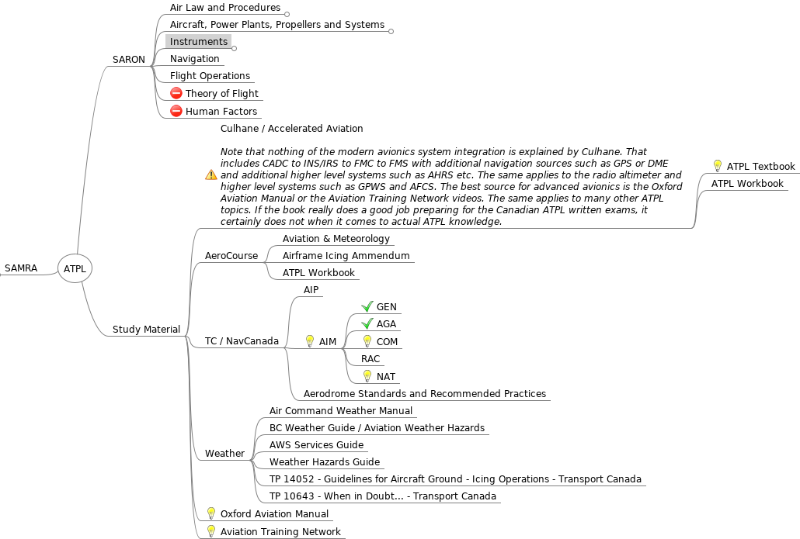
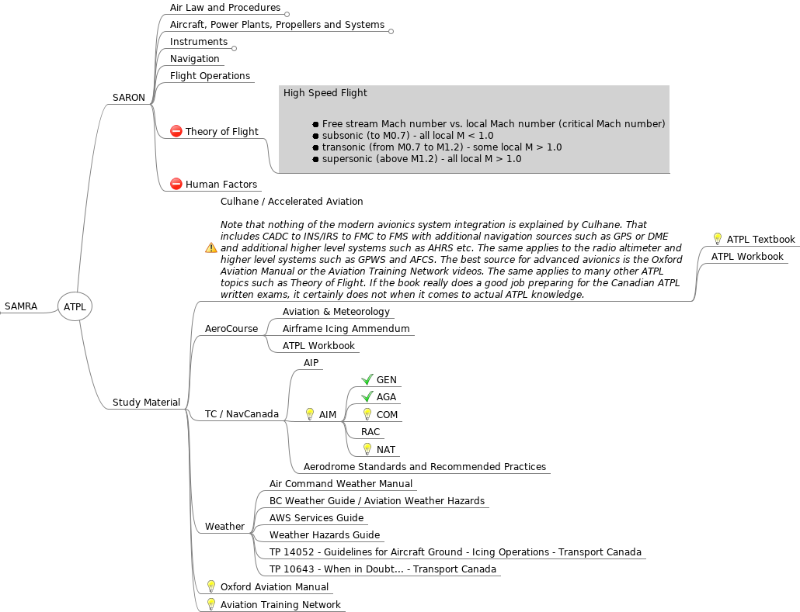
extended ATPL mind map

Changed region(s): [[0.0, 0.0, 1.0, 1.0], [0.0938, 0.2078, 0.125, 0.3859]]

diff --git a/ATPL/ATPL.mm b/ATPL/ATPL.mm
@@ -5439,8 +5439,7 @@
       </li>
     </ul>
   </body>
-</html>
-</richcontent>
+</html></richcontent>
 </node>
 <node CREATED="1571512651917" ID="ID_198224209" MODIFIED="1571512844574">
 <richcontent TYPE="NODE"><html>
@@ -5465,8 +5464,7 @@
       Engine Indicating and Crew Alerting System (EICAS) / Electronic Centralized Aircraft Monitor (ECAM)
     </p>
   </body>
-</html>
-</richcontent>
+</html></richcontent>
 </node>
 </node>
 <node CREATED="1571512691326" FOLDED="true" ID="ID_1356159857" MODIFIED="1571689751168" TEXT="Flight Guidance">
@@ -5538,8 +5536,7 @@
       </li>
     </ul>
   </body>
-</html>
-</richcontent>
+</html></richcontent>
 </node>
 <node CREATED="1571597431561" ID="ID_479720438" MODIFIED="1571686856540">
 <richcontent TYPE="NODE"><html>
@@ -5559,8 +5556,7 @@
       </li>
     </ul>
   </body>
-</html>
-</richcontent>
+</html></richcontent>
 </node>
 <node CREATED="1571597800238" ID="ID_437718041" MODIFIED="1571597804467" TEXT="Autotrim">
 <node CREATED="1571597939240" ID="ID_1213303883" MODIFIED="1571598871408">
@@ -5755,8 +5751,7 @@
       </li>
     </ul>
   </body>
-</html>
-</richcontent>
+</html></richcontent>
 <node CREATED="1571688235461" ID="ID_908331825" MODIFIED="1571688239177" TEXT="Altitude Alert"/>
 <node CREATED="1571688255182" ID="ID_1554790256" MODIFIED="1571688260091" TEXT="Overspeed and Stall Warning"/>
 <node CREATED="1571688272457" FOLDED="true" ID="ID_686133653" MODIFIED="1571692861595" TEXT="Ground Proximity Warning System (GPWS)">
@@ -5784,8 +5779,7 @@
       </li>
     </ul>
   </body>
-</html>
-</richcontent>
+</html></richcontent>
 </node>
 <node CREATED="1571691534034" ID="ID_143390873" MODIFIED="1571691549890" TEXT="Runway Awareness and Advisory System (RAAS)"/>
 </node>
@@ -5822,8 +5816,7 @@
       </li>
     </ul>
   </body>
-</html>
-</richcontent>
+</html></richcontent>
 </node>
 </node>
 <node CREATED="1571688364420" FOLDED="true" ID="ID_945861241" MODIFIED="1571689379139" TEXT="Recording Systems">
@@ -5836,6 +5829,36 @@
 <node CREATED="1568173802936" ID="ID_851590336" MODIFIED="1568173809889" TEXT="Flight Operations"/>
 <node CREATED="1568173868337" ID="ID_1290650653" MODIFIED="1568249056208" TEXT="Theory of Flight">
 <icon BUILTIN="closed"/>
+<node CREATED="1571698150394" ID="ID_330232180" MODIFIED="1571699835984">
+<richcontent TYPE="NODE"><html>
+  <head>
+    
+  </head>
+  <body>
+    <p>
+      High Speed Flight
+    </p>
+    <p>
+      
+    </p>
+    <ul>
+      <li>
+        Free stream Mach number vs. local Mach number (critical Mach number)
+      </li>
+      <li>
+        subsonic (to M0.7) - all local M &lt; 1.0
+      </li>
+      <li>
+        transonic (from M0.7 to M1.2) - some local M &gt; 1.0
+      </li>
+      <li>
+        supersonic (above M1.2) - all local M &gt; 1.0
+      </li>
+    </ul>
+  </body>
+</html>
+</richcontent>
+</node>
 </node>
 <node CREATED="1568173906119" ID="ID_1943574224" MODIFIED="1568249061487" TEXT="Human Factors">
 <icon BUILTIN="closed"/>
@@ -5851,7 +5874,7 @@
 <node CREATED="1568172671136" ID="ID_1053951536" MODIFIED="1568172701231" TEXT="Radio Communication and Navigation Aids"/>
 </node>
 <node CREATED="1568671682779" ID="ID_1658639647" MODIFIED="1571511537883" POSITION="right" TEXT="Study Material">
-<node CREATED="1568671700482" ID="ID_217896736" MODIFIED="1571595691756">
+<node CREATED="1568671700482" ID="ID_217896736" MODIFIED="1571698186021">
 <richcontent TYPE="NODE"><html>
   <head>
     
@@ -5864,10 +5887,11 @@
       
     </p>
     <p>
-      <i>Note that nothing of the modern avionics system integration is explained by Culhane. That includes CADC to INS/IRS to FMC to FMS with additional navigation sources such as GPS or DME and additional higher level systems such as AHRS etc. The same applies to the radio altimeter and higher level systems such as GPWS and AFCS. The best source for advanced avionics is the Oxford Aviation Manual or the Aviation Training Network videos. The same applies to many other ATPL topics. If the book really does a good job preparing for the Canadian ATPL written exams, it certainly does not when it comes to actual ATPL knowledge.</i>
+      <i>Note that nothing of the modern avionics system integration is explained by Culhane. That includes CADC to INS/IRS to FMC to FMS with additional navigation sources such as GPS or DME and additional higher level systems such as AHRS etc. The same applies to the radio altimeter and higher level systems such as GPWS and AFCS. The best source for advanced avionics is the Oxford Aviation Manual or the Aviation Training Network videos. The same applies to many other ATPL topics such as Theory of Flight. If the book really does a good job preparing for the Canadian ATPL written exams, it certainly does not when it comes to actual ATPL knowledge.</i>
     </p>
   </body>
-</html></richcontent>
+</html>
+</richcontent>
 <icon BUILTIN="messagebox_warning"/>
 <node CREATED="1568671752273" ID="ID_386732757" MODIFIED="1568672230580" TEXT="ATPL Textbook">
 <icon BUILTIN="idea"/>
